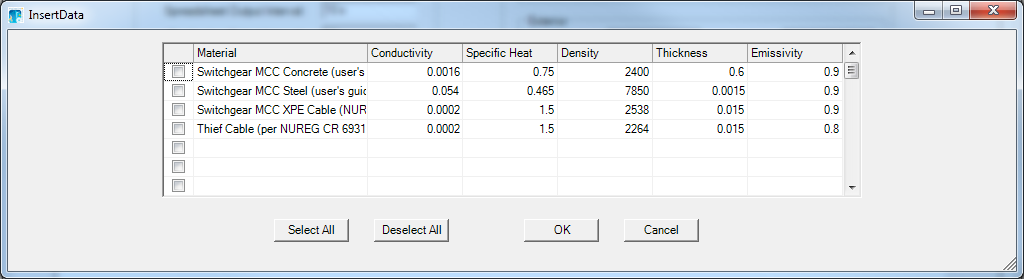
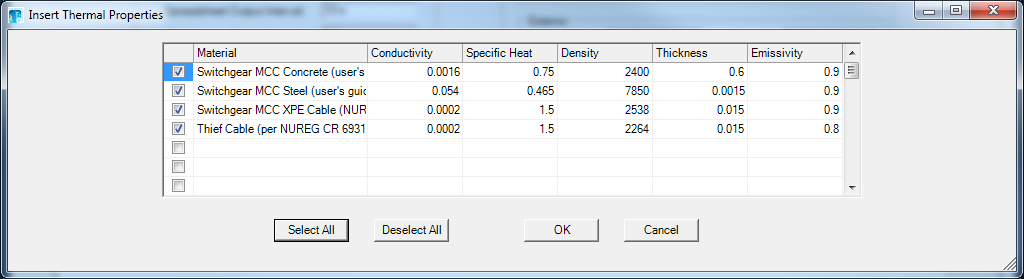
CFAST User's Guide: Updating User's Guide for version 7

diff --git a/cfast/trunk/Docs/Users_Guide/Input_File_Chapter.tex b/cfast/trunk/Docs/Users_Guide/Input_File_Chapter.tex
@@ -20,7 +20,7 @@ MATL,GLASSFB3,0.036,795,105,0.013,0.9,"Glass Fiber, Organic Bonded (1/2 in)"
 !!
 !!Compartment keywords
 !!
-COMPA,Compartment 1,9.1,5,4.6,0,0,0,GLASSFB3,CONCRETE,CONCRETE,50,50,50
+COMPA,Comp 1,9.1,5,4.6,0,0,0,GLASSFB3,CONCRETE,CONCRETE,50,50,50
 !!
 !!Vent keywords
 !!
@@ -110,17 +110,17 @@ The Simulation Environment page defines the initial conditions and simulation ti
 
 \subsection{Naming the Calculation, the Title Input}
 
-The first thing to do when setting up an input file is to give the simulation a title.  The first line in the CFAST input data file must be the CFAST version identification along with an optional short title for the simulation.  This is a required input.  The title command is the line that CFAST keys on to determine whether it has a correct data file.
+The first thing to do when setting up an input file is to give the simulation a title.  The first line in the CFAST input data file must be the CFAST version identification along with an optional short title for the simulation.  This is a required input.  The VERSN command is the line that CFAST keys on to determine whether it has a correct data file.
 
 \begin{lstlisting}
-VERSN,6,CFAST Simulation
+VERSN,7,CFAST Simulation
 \end{lstlisting}
 
 \clearpage
 
 \begin{figure}[h!]
 \begin{center}
-\includegraphics[width=3.458in]{FIGURES/Input_File/Title}
+\includegraphics[width=5.3in]{FIGURES/Input_File/Title}
 \end{center}
 \end{figure}
 
@@ -140,28 +140,24 @@ TIMES,900,50,10,10
 \end{center}
 \end{figure}
 
-\begin{itemize}
-\item \textbf{Simulation Time} (default units: s, default value, 900 s): The length of time over which the simulation takes place.  This is a required input which should be entered even if all other fields are not included. The maximum value for this input is 86400 s (1 day).
 
-\item \textbf{Text Output Interval} (default units: s, default value, 50 s): The print interval is the time interval between each printing of the output values.  If omitted or less than or equal to zero, no output values will occur.
+\textbf{Simulation Time} (default units: s, default value, 900 s): The length of time over which the simulation takes place.  This is a required input which should be entered even if all other fields are not included. The maximum value for this input is 86400 s (1 day).
 
-\item \textbf{Spreadsheet Output Interval} (default units: s, default value, 10 s): CFAST can output a subset of the results of the model simulation in a comma-delimited alphanumeric format which can be read by most spreadsheet software. This is designed to be imported into a spreadsheet for further analysis or graphing of the results of the simulation.  This input defines the time interval between outputs of the model results in a spreadsheet-compatible format. A value greater than zero must be used if the spreadsheet file is to be used.
+\textbf{Text Output Interval} (default units: s, default value, 50 s): The print interval is the time interval between each printing of the output values.  If omitted or less than or equal to zero, no output values will occur.
 
-\item \textbf{Smokeview Output Interval} (default units: s, default value: 10 s): CFAST can output a subset of the results in a format compatible with the visualization program smokeview. This input defines the time interval between outputs of the model results in a smokeview-compatible format.  A value greater than zero must be used if the spreadsheet output is desired.
-\end{itemize}
+\textbf{Spreadsheet Output Interval} (default units: s, default value, 10 s): CFAST can output a subset of the results of the model simulation in a comma-delimited alphanumeric format which can be read by most spreadsheet software. This is designed to be imported into a spreadsheet for further analysis or graphing of the results of the simulation.  This input defines the time interval between outputs of the model results in a spreadsheet-compatible format. A value greater than zero must be used if the spreadsheet file is to be used.
 
-In addition to the input data file created specifically for a CFAST simulation, there are a number files that CFAST uses to define default values and other input information, and to output the results of the simulation for later analysis.  They include 1) a thermal properties file, 2) files of predefined fire objects, and 4) a spreadsheet-compatible output file.
-
-The thermal properties file contains material properties for compartment surfaces, target objects that may be placed in compartments in the simulation to monitor surface temperature and heat flux to the objects, and fire objects, in addition to the main fire in the simulation that may ignite based on their surface temperature or incident flux onto the surface of the object. The predefined fire objects files contain definitions for a number of reference fires from the literature or developed by the user that may be included in a simulation. The thermal properties and fire objects files may be modified by the user.  Details of the files are included in the appendices.  There are default files included in the CFAST distribution.
+\textbf{Smokeview Output Interval} (default units: s, default value: 10 s): CFAST can output a subset of the results in a format compatible with the visualization program smokeview. This input defines the time interval between outputs of the model results in a smokeview-compatible format.  A value greater than zero must be used if the spreadsheet output is desired.
+    
+\textbf{Maximum Time Step} (default units: s, default value: 2 s): CFAST will automatically adjust the time interval for the solution of the differential equation set up or down so that the simulation is as efficient as possible within the pre-defined error tolerances. This input places a maximum value for the equation solver and can normally be left at the default value. In cases (which are hopefully rare) where the model fails to converge on a solution, this value can be reduced which often will allow the simulation to successfully complete.
 
 \subsection{Ambient Conditions}
 
-Ambient conditions define the environment at which the scenario begins. This allows the user to specify the temperature, pressure, and station elevation of the ambient atmosphere, as well as the absolute wind pressure to which the structure is subjected.  Pressure interior to a structure is calculated simply as a lapse rate (related to the height above sea level) based on the NOAA/NASA tables \cite{GPO:Atmosphere}.  This modification is applied to the vents which connect to the exterior ambient.  The calculated pressure change is modified by the wind coefficient for each vent.  This coefficient, which can vary from -1.0 to +1.0, nominally from -0.8 to +0.8, determines whether the vent is facing away from or into the wind.  The pressure change is multiplied by the vent wind coefficient and added to the external ambient for each vent which is connected to the outside. There is an ambient for the interior and for the exterior of the structure.  Three keywords define the ambient conditions: TAMB for the interior of the structure, EAMB for the exterior of the structure is EAMB, and WIND for the wind information.
+Ambient conditions define the environment at which the scenario begins. This allows the user to specify the temperature, pressure, and a reference elevation, as well as an initial relative humidity.  Initial pressures in a structure are calculated simply as a lapse rate (related to the height above sea level) based on the NOAA/NASA tables \cite{GPO:Atmosphere}. The relative humidity is used to calculate the initial water content in the air both inside and outside of the structure.  There is an input for the interior and for the exterior of the structure.  Two keywords define the ambient conditions: TAMB for the interior of the structure and EAMB for the exterior of the structure is EAMB.
 
 \begin{lstlisting}
 EAMB,293.15,101300,0
 TAMB,293.15,101300,0,50
-WIND,0,10,0.16
 \end{lstlisting}
 
 \begin{figure}[h!]
@@ -170,39 +166,30 @@ WIND,0,10,0.16
 \end{center}
 \end{figure}
 
-\textbf{Ambient Temperature} (default units: \degc~C, default value: 20 \degc~C): Initial ambient temperature inside (for TAMB) or outside (For EAMB) the structure at the station elevation.
+\textbf{Temperature} (default units: \degc~C, default value: 20 \degc~C): Initial ambient temperature inside (for TAMB) or outside (For EAMB) the structure at the station elevation.
 
-\textbf{Ambient Pressure} (default units: Pa, default value: 101300 Pa): Initial values for ambient atmospheric pressure inside (for TAMB) and outside (for EAMB) the structure at the station elevation. Default value is standard atmospheric pressure at sea level (0 m elevation) of 101.3 kPa. Input units are in Pa. These values define standard conditions as defined in Standard Atmosphere as noted in the Handbook of Chemistry and Physics  . There is a set of numerical approximations in the CFAST code which duplicate the pressure/temperature/altitude relationships in the handbook.
+\textbf{Pressure} (default units: Pa, default value: 101300 Pa): Initial values for ambient atmospheric pressure inside (for TAMB) and outside (for EAMB) the structure at the station elevation. Default value is standard atmospheric pressure at sea level (0 m elevation) of 101.3 kPa. Input units are in Pa.
 
 \textbf{Elevation} (defaults units: m, default value: 0 m): The height where the ambient pressure and temperature were specified.  This is the reference datum for calculating the density of the atmosphere as well as the temperature and pressure inside and outside of the structure as a function of height.
 
-\textbf{Relative Humidity} (default units \% RH, default value: 50 \%): The initial relative humidity in the system, only specified for the interior with the TAMB command.  This is converted to kilograms of water per cubic meter.
+\textbf{Humidity} (default units \% RH, default value: 50 \%): The initial relative humidity in the system, only specified for the interior with the TAMB command.  This is converted to kilograms of water per cubic meter as an initial condition for both the interior and exterior of the structure.
 
-The wind speed, scale height, and power law are used to calculate the wind coefficient for each vent connected to the outside.  The wind velocity is specified at some reference height.  The power law then provides a lapse rate for the wind speed.  An assumption is that the wind speed is zero at the surface.  The formula used to calculate the wind speed at the height of any vent is show below.  The wind is applied to each external opening as a change in pressure outside of the vent.
-
-\textbf{Wind Speed} (default units: m/s, default value 0 m/s): Wind speed at the reference elevation.
-
-\textbf{Scale Height} (default units: m, default value: 0 m)): Reference height at which the reference wind speed is measured.
-
-\textbf{Power Law Coefficient} (default units: dimensionless, default value 0.16): The power law used to calculate the wind speed as a function of height. Default value is 0.16. Using the notation that $V_W$, is the wind speed at the reference height $H_W$, and $P_W$ is the power law, the exterior pressure is modified by  $\delta P = {C_W}{V^2}$ and $V = {V_W}{\left( {\frac{{{H_i}}}{{{H_W}}}} \right)^{{P_W}}}$ where $H_i$ is the position of the vent \cite{CFAST_Tech_Guide_6}.
 
 \begin{itemize}
-\item In order to see the effect of wind, the corresponding parameter for the ventilation keyword must be specified. The default for the wind vector is 0, which turns off wind effects. Please see the HVENT command, below.
-
 \item The choice for station elevation, temperature and pressure must be consistent.  Outside of that limitation, the choice is arbitrary.  It is often convenient to choose the base of a structure to be at zero height and then reference the height of the structure with respect to that height.  The temperature and pressure must then be measured at that position.  Another possible choice would be the pressure and temperature at sea level, with the structure elevations then given with respect to mean sea level.  This is also acceptable, but somewhat more tedious in specifying the construction of a structure.  Either of these choices works though, so long as they are consistent. Usually, the station elevation is set to zero and the pressure to ambient. The effect of changing these values is small for small changes. There will be an effect for places at altitude such as Denver, Colorado, but even there the effect is not pronounced. Note that the equations implemented in the model are not designed to handle negative elevations and altitudes. It is suggested that the defaults be used.
 
-\item These three parameters are optional. If they are not included in the input file, default values are used.
+\item These parameters are optional. If they are not included in the input file, default values are used.
 \end{itemize}
 
 \section{Compartment Geometry}
-
-The Compartment Geometry page defines the size, position, materials of construction, and flow characteristics for the compartments in the simulation. Initially, only the simulation environment page and the �Add� button on the compartment geometry page is enabled; all other pages are not available to the user for detailed inputs until a compartment has been added to the simulation.
 
 \begin{figure}[h!]
 \begin{center}
 \includegraphics[width=6.5in]{FIGURES/Input_File/Compartment_Geometry_Tab}
 \end{center}
 \end{figure}
+
+The Compartment Geometry page defines the size, position, materials of construction, and flow characteristics for the compartments in the simulation. Initially, only the simulation environment page and the 'Add' button on the compartment geometry page is enabled; all other pages are not available to the user for detailed inputs until a compartment has been added to the simulation.
 
 Most of the tabbed pages in the program are of similar design, with a summary of the defined items in table form at the top of the page, a series of buttons to add, remove, or modify the item highlighted in the summary table, and a number of individual inputs below which details all of the inputs for the item selected in the summary table. The buttons included on the compartment geometry page are as follows: \\
 
@@ -240,12 +227,12 @@ At least one compartment must be specified in the input file.  There are no defa
   \includegraphics[width=2.0in]{FIGURES/Input_File/CFAST_Coordinates}
 \end{wrapfigure}
 
-Compartments in CFAST are most typically defined by a width, depth, and height.  If desired, compartments can be prescribed by the cross-sectional area of the compartment as a function of height from floor to ceiling for other shapes. The absolute position of the compartment with respect to a single structure reference point can be defined to ease visualization or to allow exact placement of vents and surfaces relative to other compartments in a detailed calculation. This specification is important for utilizing the corridor flow algorithm with the HALL command and for positioning the compartments for visualization in SMOKEVIEW.
+Compartments in CFAST are most typically defined by a width, depth, and height.  If desired, compartments can be prescribed by the cross-sectional area of the compartment as a function of height from floor to ceiling for other shapes. The absolute position of the compartment with respect to a single structure reference point can be defined to ease visualization or to allow exact placement of vents and surfaces relative to other compartments in a detailed calculation. This specification is important for positioning the compartments for visualization in Smokeview.
 
-The relevant CFAST keywords are COMPA to define the compartment size and materials, HALL or ONEZ to define flow characteristics in the compartment, and ROOMA / ROOMH to define a variable cross-sectional area for the compartment. The COMPA command is required for each compartment as a basic definition for the compartment, even if there are subsequent modifications by the HALL, ONEZ, ROOMA, or ROOMH keywords which follow.  Details of the CFAST keywords are included in Appendix A.
+The relevant CFAST keywords are COMPA to define the compartment size and materials, MATL to define the thermophysical properties of the compartment surfaces, HALL or ONEZ to define flow characteristics in the compartment, and ROOMA / ROOMH to define a variable cross-sectional area for the compartment. The COMPA command is required for each compartment as a basic definition for the compartment, even if there are subsequent modifications by the HALL, ONEZ, ROOMA, or ROOMH keywords which follow.  Details of the CFAST keywords are included in Appendix A.
 
 \begin{lstlisting}
-COMPA,Compartment 1,9.1,5,4.6,0,0,0,GLASSFB3,CONCRETE,CONCRETE
+COMPA,Comp 1,9.1,5,4.6,0,0,0,GLASSFB3,CONCRETE,CONCRETE,50,50,50
 \end{lstlisting}
 
 \begin{figure}[h!]
@@ -280,12 +267,20 @@ COMPA,Compartment 1,9.1,5,4.6,0,0,0,GLASSFB3,CONCRETE,CONCRETE
 
 \subsection{Thermal Properties of Bounding Surfaces}
 
-To calculate heat loss through the ceiling, walls, and floor of a compartment, the properties of the bounding surfaces must be known. This includes the thermophysical properties of the surfaces and the arrangement of adjacent compartments if calculation of inter-compartment heat transfer is to be calculated.
+To calculate heat loss through the ceiling, walls, and floor of a compartment, the properties of the bounding surfaces must be known. This includes the thermophysical properties of the surfaces and the arrangement of adjacent compartments if inter-compartment heat transfer is to be calculated.
 
-The thermophysical properties of the surfaces which define compartments are described by specifying the thermal conductivity, specific heat, emissivity, density, and thickness of the enclosing surfaces for each material and then assigning the material to the ceiling, walls, and floor of a compartment.  Currently, thermal properties for materials are read from the CFAST input file with a thermal database file of common materials included in the CFAST distribution.  The thermophysical properties are specified at one condition of temperature, humidity, etc.  In CFAST version 6, there can only a single layer per boundary (previous versions allowed up to three).
+The thermophysical properties of the surfaces which define compartments are described by specifying the thermal conductivity, specific heat, emissivity, density, and thickness of the enclosing surfaces for each material and then assigning the material to the ceiling, walls, and floor of a compartment.  Thermal properties for materials are read from the CFAST input file.  The thermophysical properties are specified at one condition of temperature, humidity, etc.  In CFAST version 6, there can only a single layer per boundary (previous versions allowed up to three).
 
 \begin{lstlisting}
-COMPA,Compartment 1,9.1,5,4.6,0,0,0,GLASSFB3,CONCRETE,CONCRETE
+!!
+!!Material Properties
+!!
+MATL,CONCRETE,1.75,1000,2200,0.15,0.94,"Concrete, Normal Weight (6 in)"
+MATL,GLASSFB3,0.036,795,105,0.013,0.9,"Glass Fiber, Organic Bonded (1/2 in)"
+!!
+!!Compartment keywords
+!!
+COMPA,Compartment 1,9.1,5,4.6,0,0,0,GLASSFB3,CONCRETE,CONCRETE,50,50,50
 \end{lstlisting}
 
 \begin{figure}[h!]
@@ -303,20 +298,35 @@ The bounding surfaces are the ceilings, walls and floors that define a compartme
 \begin{itemize}
 \item If the thermophysical properties of the enclosing surfaces are not included, CFAST will treat them as adiabatic (no heat transfer).
 
-\item If a name is used which is not in the database, the model should stop with an error message. The keyword in the data file simply gives a name (such as CONCRETE) which refers to the properties for that material in the thermal data file (see section 4.2.3 and Appendix A for details on the thermophysical database).
+\item If a name is used which is not in the input file, the model should stop with an error message.
 
-\item Since most of the heat conduction is through the ceiling, and since the conduction calculation takes a significant fraction of the computation time, it is recommended that initial calculations be made using the ceiling only.  Adding the walls generally has a small effect on the results, and the floor contribution is usually negligible.  Clearly, there are cases where the above generalization does not hold, but it may prove to be a useful screening technique. A caveat in including floor properties is that the set of equations describing heat transfer becomes difficult to solve once the thermal wave from the compartments reaches the unexposed side of a floor. The back surfaces of compartments are assumed to be exposed to ambient conditions unless specifically specified (see the section on Surface Connections) to specify heat transfer connections between compartments).
+\item The back surfaces of compartments are assumed to be exposed to ambient conditions unless specifically specified (see the section on Surface Connections) to specify heat transfer connections between compartments).
 \end{itemize}
 
 \subsection{Additional Thermal Properties}
 
-The default CFAST installation includes a set of thermal properties for common building materials taken from textbook references.  While these may be useful for a range of problems, the user can also define additional materials for use with a specific simulation.
+By default, CEdit does not include predefined thermal properties for compartment materials. Thus, the user needs to define materials for use with a specific simulation.  These may be from other simulations or input directly from reference sources or test results. The \textbf{Insert Thermal Properties} Menu item (see page \pageref{Thermal_Properties_Menu}) allows you to add thermal properties from an existing data file to the current simulation. 
+
+\begin{figure}[h!]
+\begin{center}
+\includegraphics[width=6.5in]{FIGURES/Input_File/Insert_Thermal_Properties}
+\end{center}
+\end{figure}
+
+To add additional thermal properties to a simulation or to edit existing ones, the \textbf{Edit Thermal Properties} menu item (see page \pageref{Thermal_Properties_Menu}) allows you to edit any of the existing thermal properties. \\~ \\
 
 \begin{figure}[h!]
 \begin{center}
 \includegraphics[width=6.5in]{FIGURES/Input_File/Edit_Thermal_Properties}
 \end{center}
 \end{figure}
+
+\begin{wrapfigure}{l}{0pt}
+  \includegraphics[width=0.781in]{FIGURES/Input_File/Select_All_Button} 
+  \includegraphics[width=0.781in]{FIGURES/Input_File/Deselect_All_Button}
+\end{wrapfigure}
+
+Use the Select All and Deselect All buttons to make or clear all materials for inclusion in the current simulation.  Individual materials can be included or excluded by checking or clearing the check box for an individual material in the list of materials. \\~ \\
 
 \begin{wrapfigure}{l}{0pt}
   \includegraphics[width=0.781in]{FIGURES/Input_File/Add_Button}
@@ -338,7 +348,7 @@ Use the Remove button to delete the selected thermal property from the list of f
 
 \textbf{Material}: A descriptive name for the material.
 
-\textbf{Short Name}: A one-word identifier for the material.  This identifiershould not contain any spaces and is used in other CFAST inputs to identify the particular material referenced.
+\textbf{Short Name}: A one-word (no more than 8 characters) \textbf{unique} identifier for the material.  This identifier should not contain any spaces and is used in other CFAST inputs to identify the particular material referenced.
 
 \textbf{Thermal Conductivity} (default value: none, default units: kW/m \degc): Thermal conductivity for the material.
 
@@ -350,7 +360,6 @@ Use the Remove button to delete the selected thermal property from the list of f
 
 \textbf{Emissivity} (default value: 0.9, default units: none): Emissivity of the material surface.  This is the fraction of radiation that is absorbed by the material.
 
-\textbf{HCl (b1) through HCl (b7)} (default value: 0, default units: none): These constants define HCl deposition on the material.  Data is only available for gypsum wallboard so these entries are typically left at a value of zero.
 
 \section{Compartment Connections}
 

diff --git a/cfast/trunk/Docs/Users_Guide/Running_CFAST_Chapter.tex b/cfast/trunk/Docs/Users_Guide/Running_CFAST_Chapter.tex
@@ -73,7 +73,7 @@ Editing Thermal Properties in Cedit
 \end{center}
 \end{figure}
 
-When CEdit is started, no thermal properties or fires are defined.  The \textbf{Insert Thermal Properties} menu item allows thermal properties used in a different simulation to be inserted into the data for the current simulation by choosing an existing CFAST input file and selecting one or more of the thermal properties to be included in the current simulation.
+When CEdit is started, no thermal properties or fires are defined \label{Thermal_Properties_Menu}.  The \textbf{Insert Thermal Properties} menu item allows thermal properties used in a different simulation to be inserted into the data for the current simulation by choosing an existing CFAST input file and selecting one or more of the thermal properties to be included in the current simulation.
 
 \begin{figure}[h!]
 \begin{center}
